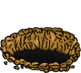
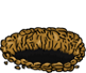
Fixado os tamanhos das toupeiras e adicionada pontuação por toupeira

diff --git a/game/scenes.py b/game/scenes.py
@@ -128,9 +128,9 @@ class TitleScene(Scene):
 
 
 class SurvivalScene(Scene):
-    hole_width = 81
+    hole_width = 86
     hole_height = 73
-    left_margin = 24
+    left_margin = 13
     top_margin = 96
     level_map = [
                     [1, 1, 1, 1, 1],
@@ -183,7 +183,7 @@ class SurvivalScene(Scene):
 
     def kill_mole(self, mole, killed=False):
         if killed:
-            self.context['player'].score += 1
+            self.context['player'].score += mole.points
         else:
             self.context['player'].lives -= 1
 

diff --git a/game/moles.py b/game/moles.py
@@ -9,6 +9,7 @@ class Mole(GameObject):
     alive = True
     alive_timer = 50
     killed = False
+    points = 1
 
     def __init__(self, position, image, coordenates):
         GameObject.__init__(self, image, position)

diff --git a/game/utils.py b/game/utils.py
@@ -94,5 +94,5 @@ class Hole(GameObject):
 
 class Player(object):
 
-    lives = 5
+    lives = 9999
     score = 0
